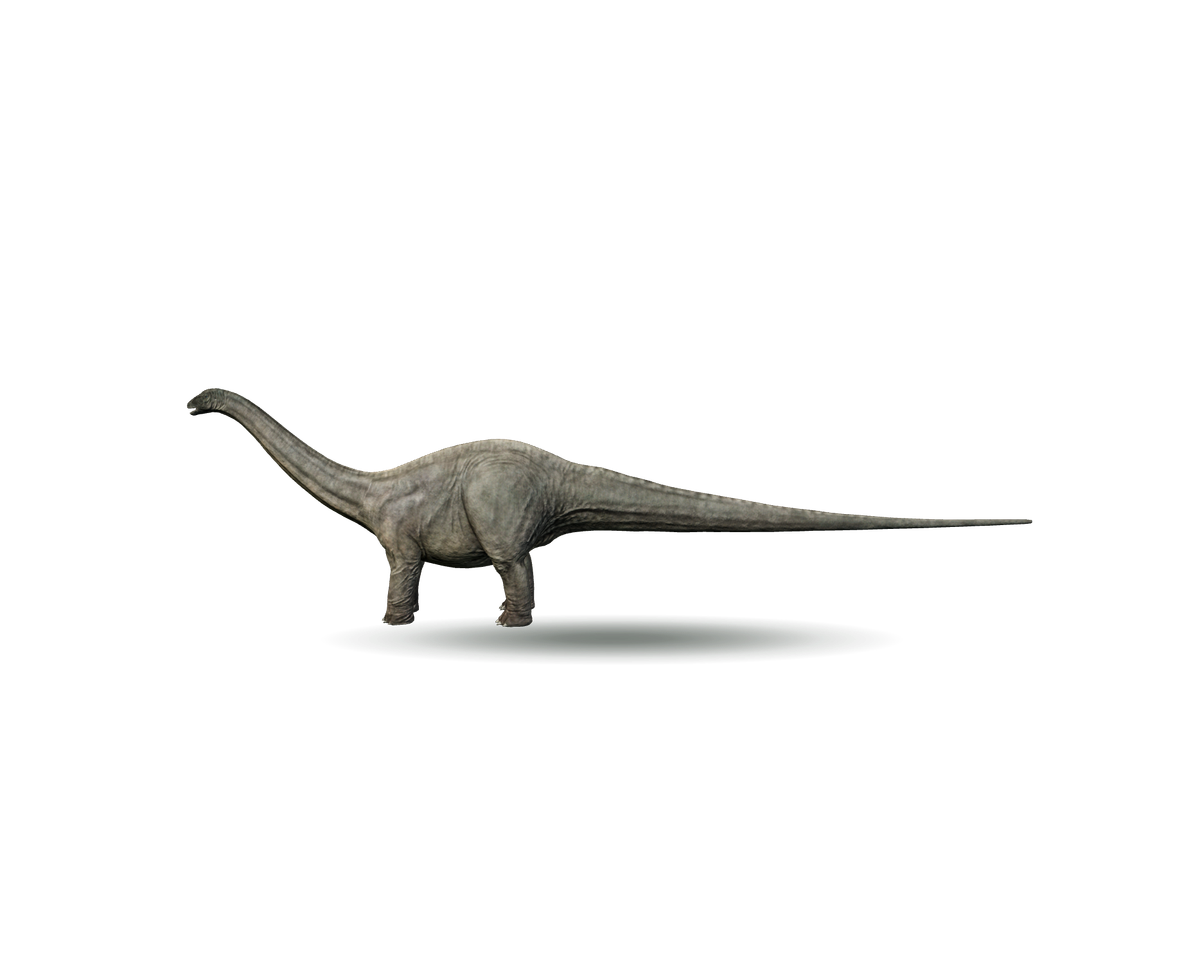
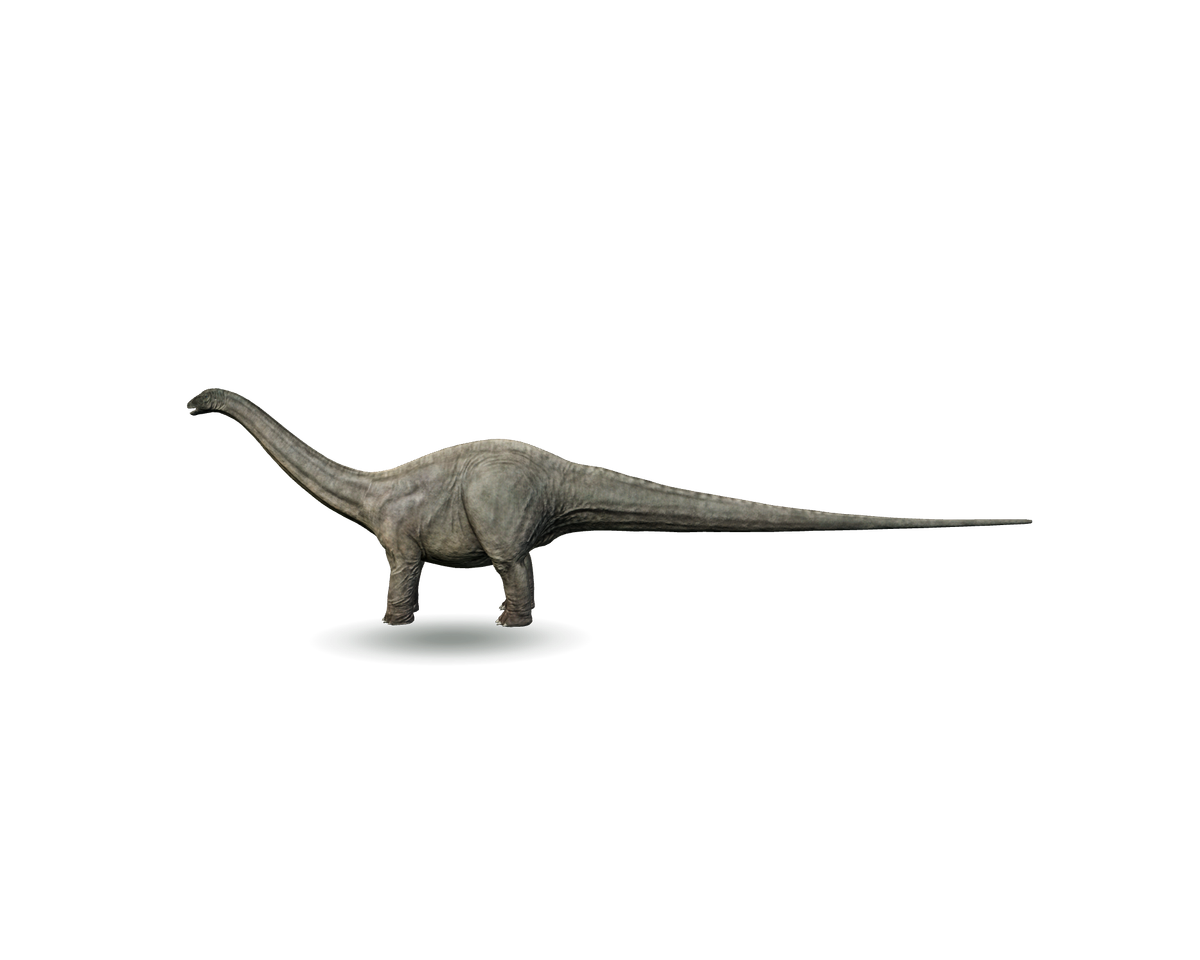
feat: harmonize tyrannosaurus and apatosaurus scenes

Changed region(s): [[0.2775, 0.625, 0.7092, 0.6875]]

diff --git a/src/content/provenance-helpers.ts b/src/content/provenance-helpers.ts
@@ -31,23 +31,26 @@ const sharedBackgroundPrompt =
 const habitatBackgroundPrompt =
   'Refined layered paper-cut picture-book art with soft gouache texture, tactile matte paper, and shallow soft shadows; an empty scientifically era-appropriate habitat behind a full-body 3D animal; quiet central safe area; no animal, person, text, UI, logo, watermark, photorealism, or baked-in particles because CSS supplies the atmosphere.'
 
+const naturalisticBackgroundPrompt =
+  'Photorealistic natural-history environment plate with believable atmospheric depth, soft cloud-filtered daylight from high camera-left, physically plausible soil and vegetation, and a quiet continuous staging plane behind a live full-body 3D animal. Keep ground detail broad, sparse, and true to real-world scale; no all-over cracks, pebble carpet, dense dots, repeated cellular texture, animal, person, footprint, bone, text, UI, logo, watermark, platform, or baked-in shadow.'
+
 export const reviewedBackgroundSources = {
   apatosaurus: {
     landscape: {
       title: 'Apatosaurus Morrison floodplain — landscape',
-      generatedOn: '2026-07-29',
-      prompt: `${habitatBackgroundPrompt} Preserve the accepted Late-Jurassic Morrison alluvial plain, but raise the distant horizon to about 42% of the 16:9 frame and recompose the terrain so the central sauropod staging band is continuous solid ground.`,
-      bytes: 2_599_138,
+      generatedOn: '2026-08-09',
+      prompt: `${naturalisticBackgroundPrompt} True 16:9 Late-Jurassic Morrison Formation floodplain after the wet season, with smooth compacted warm-gray sandy loam, sparse low plants, distant subdued mesas, and a low conifer, cycad, and tree-fern line. Keep the horizon near 41% and the central 44–76% as uninterrupted level ground; the feet meet near 64%. Match a cool charcoal-gray and muted-olive Apatosaurus without a yellow-orange wash.`,
+      bytes: 2_190_064,
       sha256:
[2 lines of base64/hex data omitted]
     },
     portrait: {
       title: 'Apatosaurus Morrison floodplain — portrait',
-      generatedOn: '2026-07-31',
-      prompt: `${habitatBackgroundPrompt} Precise portrait edit: change only the scene depth; move the distant horizon and start of the open valley ground upward about 7–9% of the image height so the central dirt path reaches farther into the distance and remains continuous beneath an Apatosaurus whose feet sit around 57% image height. Preserve the accepted 9:16 Morrison valley, sky, border trees, palms, cliffs, foreground plants, rocks, palette, lighting, texture, and perspective; no platform, ledge, hard seam, or new focal object.`,
-      bytes: 2_601_546,
+      generatedOn: '2026-08-09',
+      prompt: `${naturalisticBackgroundPrompt} Separately compose a 9:16 Morrison Formation alluvial terrace with smooth warm-gray sandy loam, sparse edge vegetation, distant gray-mauve bluffs, and a low misty conifer, cycad, and tree-fern line. Keep the horizon near 41%, continuous ground from 43–88%, and the 61–64% foot band level and unobstructed. Match a huge cool gray-olive Apatosaurus without a narrowing road or saturated desert color.`,
+      bytes: 2_136_494,
       sha256:
[2 lines of base64/hex data omitted]
     },
   },
   gigantoraptor: {
@@ -221,19 +224,19 @@ export const reviewedBackgroundSources = {
   tyrannosaurusRex: {
     landscape: {
       title: 'Tyrannosaurus wooded floodplain — landscape',
-      generatedOn: '2026-07-29',
-      prompt: `${habitatBackgroundPrompt} Precisely preserve the accepted raised-horizon late-Cretaceous wooded floodplain composition while brightening the central staging band by about 20–25%, shifting muddy brown ground toward pale cool sandy taupe, and softening the mid-forest to desaturated sage and misty blue-green so a dark-brown Tyrannosaurus remains clearly separated.`,
-      bytes: 3_413_758,
+      generatedOn: '2026-08-09',
+      prompt: `${naturalisticBackgroundPrompt} True 16:9 Late-Cretaceous humid conifer-and-fern forest-edge floodplain with smooth compacted brown-gray silt, sparse leaf litter, and misty cool-green depth. Keep the horizon near 42% and the central 45–76% as uninterrupted gently level ground; the feet meet near 63%. Use neutral sky fill and restrained earth bounce so a warm rust-brown Tyrannosaurus belongs in the light while remaining visible.`,
+      bytes: 2_417_533,
       sha256:
[2 lines of base64/hex data omitted]
     },
     portrait: {
       title: 'Tyrannosaurus wooded floodplain — portrait',
-      generatedOn: '2026-07-29',
-      prompt: `${habitatBackgroundPrompt} Precisely preserve the accepted 9:16 raised-horizon wooded floodplain composition while brightening the central model corridor by about 20–25%, replacing muddy brown with pale cool gray-taupe ground, and desaturating the mid-forest toward sage and misty blue-green for stronger separation from a dark-brown Tyrannosaurus.`,
-      bytes: 3_301_976,
+      generatedOn: '2026-08-09',
+      prompt: `${naturalisticBackgroundPrompt} Separately compose a 9:16 humid Late-Cretaceous forest-edge floodplain with smooth compacted brown-gray silt, layered conifers and ferns, and cool atmospheric haze. Keep the horizon near 40%, the central 43–72% open and level, and the 61% foot band unobstructed, with calm top and bottom zones for the interface. Match the warm rust-brown Tyrannosaurus without orange cast or dense central foliage.`,
+      bytes: 2_240_079,
       sha256:
[2 lines of base64/hex data omitted]
     },
   },
 } as const satisfies Readonly<

diff --git a/src/content/animals/apatosaurus/provenance.ts b/src/content/animals/apatosaurus/provenance.ts
@@ -32,22 +32,22 @@ const baseProvenance = createPublishedAssetProvenance({
       'Verified zero foot drift, ground penetration, seam separation, new BVH overlap, collapsed triangles, and flipped triangles, then validator-checked and reviewed the derivative in the shared museum viewer.',
     ],
   },
-  derivedImagesGeneratedOn: '2026-08-05',
+  derivedImagesGeneratedOn: '2026-08-09',
   backgrounds: {
     landscape: {
       source: reviewedBackgroundSources.apatosaurus.landscape,
       runtime: {
-        bytes: 245_350,
+        bytes: 157_522,
         sha256:
[2 lines of base64/hex data omitted]
       },
     },
     portrait: {
       source: reviewedBackgroundSources.apatosaurus.portrait,
       runtime: {
-        bytes: 238_436,
+        bytes: 135_960,
         sha256:
[2 lines of base64/hex data omitted]
       },
     },
   },
@@ -62,9 +62,9 @@ const baseProvenance = createPublishedAssetProvenance({
[1 lines of base64/hex data omitted]
   },
   thumbnail: {
-    bytes: 13_988,
+    bytes: 12_242,
     sha256:
[2 lines of base64/hex data omitted]
   },
   narration: {
     generatedOn: '2026-07-28',

diff --git a/src/content/animals/tyrannosaurus-rex/provenance.ts b/src/content/animals/tyrannosaurus-rex/provenance.ts
@@ -36,22 +36,22 @@ const baseProvenance = createPublishedAssetProvenance({
       'Normalized the Blender export to one closed-loop Idle clip with ten rotation-only channels, then validator-checked and reviewed the derivative in the shared museum viewer.',
     ],
   },
-  derivedImagesGeneratedOn: '2026-07-30',
+  derivedImagesGeneratedOn: '2026-08-09',
   backgrounds: {
     landscape: {
       source: reviewedBackgroundSources.tyrannosaurusRex.landscape,
       runtime: {
-        bytes: 442_240,
+        bytes: 190_444,
         sha256:
[2 lines of base64/hex data omitted]
       },
     },
     portrait: {
       source: reviewedBackgroundSources.tyrannosaurusRex.portrait,
       runtime: {
-        bytes: 375_250,
+        bytes: 164_330,
         sha256:
[2 lines of base64/hex data omitted]
       },
     },
   },
@@ -66,9 +66,9 @@ const baseProvenance = createPublishedAssetProvenance({
[1 lines of base64/hex data omitted]
   },
   thumbnail: {
-    bytes: 46_364,
+    bytes: 12_774,
     sha256:
[2 lines of base64/hex data omitted]
   },
   narration: {
     generatedOn: '2026-07-28',

diff --git a/tests/viewer.test.ts b/tests/viewer.test.ts
@@ -271,6 +271,22 @@ describe('model bounds and contact shadow', () => {
     expect(layout.scale.y).toBeCloseTo(0.6576)
     expect(layout.scale.z).toBe(1)
   })
+
+  it('places the Apatosaurus shadow under its four-foot cluster', () => {
+    const layout = computeContactShadowLayout(
+      new Vector3(3.2, 0.882, 0.432),
+      0.34,
+      {
+        depthScale: 0.9,
+        horizontalOffset: -0.62,
+      },
+    )
+
+    expect(layout.position.toArray()).toEqual([-0.62, 0.006, 0])
+    expect(layout.scale.x).toBeCloseTo(1.088)
+    expect(layout.scale.y).toBeCloseTo(0.3888)
+    expect(layout.scale.z).toBe(1)
+  })
 })
 
 describe('model transition framing', () => {

diff --git a/tests/review-catalog.test.ts b/tests/review-catalog.test.ts
@@ -651,6 +651,20 @@ describe('local collection review catalog', () => {
     })
   })
 
+  it('keeps the Apatosaurus contact shadow under its four-foot cluster', () => {
+    const apatosaurus = localReviewAnimals.find(
+      ({ id }) => id === 'apatosaurus',
+    )
+
+    expect(apatosaurus?.presentation).toMatchObject({
+      shadow: 'ground',
+      shadowDepthScale: 0.9,
+      shadowHorizontalOffset: -0.62,
+      shadowOpacity: 0.46,
+      shadowScale: 0.34,
+    })
+  })
+
   it('keeps each two-sentence narration exactly aligned with the visible feature', () => {
     for (const animal of localReviewAnimals) {
       const content = animal.content['zh-CN']

diff --git a/src/content/animals/apatosaurus/package.ts b/src/content/animals/apatosaurus/package.ts
@@ -18,8 +18,10 @@ export const animalDefinition = definePublishedAnimal({
     portraitVerticalOffset: 0.04,
     safeAreaPadding: 0.12,
     shadow: 'ground',
-    shadowOpacity: 0.54,
-    shadowScale: 0.7,
+    shadowDepthScale: 0.9,
+    shadowHorizontalOffset: -0.62,
+    shadowOpacity: 0.46,
+    shadowScale: 0.34,
     toneMappingExposure: 1.35,
   },
   animation: {

diff --git a/src/review/animals/apatosaurus/package.ts b/src/review/animals/apatosaurus/package.ts
@@ -19,8 +19,10 @@ export const animal = {
     portraitVerticalOffset: 0.04,
     safeAreaPadding: 0.12,
     shadow: 'ground',
-    shadowOpacity: 0.54,
-    shadowScale: 0.7,
+    shadowDepthScale: 0.9,
+    shadowHorizontalOffset: -0.62,
+    shadowOpacity: 0.46,
+    shadowScale: 0.34,
     toneMappingExposure: 1.35,
   },
   animation: {

diff --git a/THIRD_PARTY_NOTICES.md b/THIRD_PARTY_NOTICES.md
@@ -50,20 +50,20 @@ content, contributions, and Brand Assets follow the separate scopes in
 ### `backgrounds/landscape.webp`
 
 - Asset type: background
-- Source: Apatosaurus Morrison floodplain — landscape, generated with OpenAI built-in image_gen on 2026-07-29
+- Source: Apatosaurus Morrison floodplain — landscape, generated with OpenAI built-in image_gen on 2026-08-09
 - License: [CC BY-NC-SA 4.0 project-owned ImageGen output](https://creativecommons.org/licenses/by-nc-sa/4.0/)
 - Attribution: Project-generated 迷惑龙 landscape created with OpenAI ImageGen.
[2 lines of base64/hex data omitted]
 - Modifications:
   - Converted the reviewed PNG to lossy WebP at quality 82.
   - Removed ancillary metadata without applying a runtime tint or filter.
 ### `backgrounds/portrait.webp`
 
 - Asset type: background
-- Source: Apatosaurus Morrison floodplain — portrait, generated with OpenAI built-in image_gen on 2026-07-31
+- Source: Apatosaurus Morrison floodplain — portrait, generated with OpenAI built-in image_gen on 2026-08-09
 - License: [CC BY-NC-SA 4.0 project-owned ImageGen output](https://creativecommons.org/licenses/by-nc-sa/4.0/)
 - Attribution: Project-generated 迷惑龙 portrait created with OpenAI ImageGen.
[2 lines of base64/hex data omitted]
 - Modifications:
   - Converted the separately composed reviewed PNG to lossy WebP at quality 82.
   - Removed ancillary metadata without applying a runtime tint or filter.
@@ -90,10 +90,10 @@ content, contributions, and Brand Assets follow the separate scopes in
 ### `images/thumbnail.webp`
 
 - Asset type: thumbnail
-- Source: 迷惑龙 collection thumbnail, derived on 2026-08-05
+- Source: 迷惑龙 collection thumbnail, derived on 2026-08-09
 - License: [Creative Commons Attribution 4.0 International](https://creativecommons.org/licenses/by/4.0/)
 - Attribution: “Apatosaurus” by toro ardido modelos 3d, CC BY 4.0; modified for the Prehistoric Animal Museum. Scene art generated for this project.
[2 lines of base64/hex data omitted]
 - Modifications:
   - Selected a card-size crop that keeps the animal readable.
   - Exported without embedded text, controls, labels, logos, or watermarks.
@@ -1505,20 +1505,20 @@ content, contributions, and Brand Assets follow the separate scopes in
 ### `backgrounds/landscape.webp`
 
 - Asset type: background
-- Source: Tyrannosaurus wooded floodplain — landscape, generated with OpenAI built-in image_gen on 2026-07-29
+- Source: Tyrannosaurus wooded floodplain — landscape, generated with OpenAI built-in image_gen on 2026-08-09
 - License: [CC BY-NC-SA 4.0 project-owned ImageGen output](https://creativecommons.org/licenses/by-nc-sa/4.0/)
 - Attribution: Project-generated 霸王龙 landscape created with OpenAI ImageGen.
[2 lines of base64/hex data omitted]
 - Modifications:
   - Converted the reviewed PNG to lossy WebP at quality 82.
   - Removed ancillary metadata without applying a runtime tint or filter.
 ### `backgrounds/portrait.webp`
 
 - Asset type: background
-- Source: Tyrannosaurus wooded floodplain — portrait, generated with OpenAI built-in image_gen on 2026-07-29
+- Source: Tyrannosaurus wooded floodplain — portrait, generated with OpenAI built-in image_gen on 2026-08-09
 - License: [CC BY-NC-SA 4.0 project-owned ImageGen output](https://creativecommons.org/licenses/by-nc-sa/4.0/)
 - Attribution: Project-generated 霸王龙 portrait created with OpenAI ImageGen.
[2 lines of base64/hex data omitted]
 - Modifications:
   - Converted the separately composed reviewed PNG to lossy WebP at quality 82.
   - Removed ancillary metadata without applying a runtime tint or filter.
@@ -1545,10 +1545,10 @@ content, contributions, and Brand Assets follow the separate scopes in
 ### `images/thumbnail.webp`
 
 - Asset type: thumbnail
-- Source: 霸王龙 collection thumbnail, derived on 2026-07-30
+- Source: 霸王龙 collection thumbnail, derived on 2026-08-09
 - License: [Creative Commons Attribution 4.0 International](https://creativecommons.org/licenses/by/4.0/)
 - Attribution: “Tyrant King - Tyrannosaurus” by Marcel Schanz, CC BY 4.0; modified for the Prehistoric Animal Museum. Scene art generated for this project.
[2 lines of base64/hex data omitted]
 - Modifications:
   - Selected a card-size crop that keeps the animal readable.
   - Exported without embedded text, controls, labels, logos, or watermarks.
